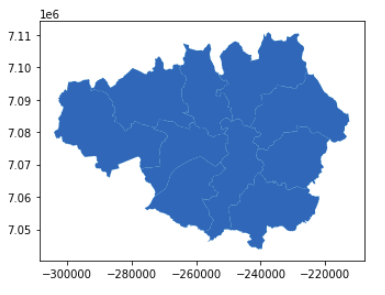
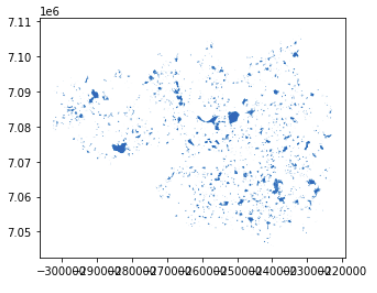
done plotting

diff --git a/_posts/2021-10-08-Mapping-green-spaces.md b/_posts/2021-10-08-Mapping-green-spaces.md
@@ -46,7 +46,6 @@ For this analysis, we have downloaded data from:
 * [Population data at postal sector level can be extracted from Nomis](https://www.nomisweb.co.uk/census/2011/ks101ew)
 
 
-
 ### Geopandas for data manipulation
 GeoPandas is a python library that enables geospatial data manipulation. It introduces the `geoSeries`, a subclass of `pandas.Series`, handles the geometries  (points, polygons etc.). The `geoDataFrame` extends the popular concept of a `pandas.DataFrame` by adding a `geometry` column, which specifies the geometry of each row in a `geoSeries`. The beauty of this class hierarchy is that you can store as much metadata in your `geoDataFrame` as you would in aregular `DataFrame` and you can keep using Pandas functionalities for data manipulation for free. 
 
@@ -74,6 +73,7 @@ There are three main types:
 * A **polygon**, an ordered sequence of point tuples that form a closed polygon. It can also specify an optional unordered sequence of ring-like sequences specifying the interior boundaries or “holes” of the feature. `Polygon([(0, 0), (1, 1), (1, 0)])`
 
 `geoSeries` also store information about the projection used to generate the coordinates (`geoSeries.crs`). A single `geoDataFrame` can contain  multiple `geoSeries` with different CRS, which means you can store multiple projections of the same geospatial objects, although only one geomtry will be considered as the *active* geometry for a specific `geoDataFrame`. 
+
 
 But, how does one use GeoPandas then? Well, I am glad you asked.
 
@@ -121,22 +121,142 @@ And lastly, for particular tasks you may need to change the projection that your
 gmcr_boroughs.to_crs(epsg=3857, inplace=True)
 ```
 
-### Mapping with matplotlib
-`GeoPandas` can also plot maps with the aid of the `geoDataFrame.plot()` method which calls the `matplotlib` library.
+### Green public areas in Greater Manchester
+So far so good, but we need to upload geospatial data for green public areas within Greater Manchester. In our case, we know that Grater Manchester spreads across OrdenanceSurvey *SD* and *SJ* quadrants, so we need to read both files and concatenate the resulting geoDataFrames.
 
 ```python
-gmcr_boroughs.plot()
+fp = 'data/greenspace_SD/SD_GreenspaceSite.shp'
+gs_sd = gpd.read_file(fp)
+
+fp = 'data/greenspace_SJ/SJ_GreenspaceSite.shp'
+gs_sj = gpd.read_file(fp)
+
+gs = gpd.GeoDataFrame(
+    pd.concat([gs_sd, gs_sj], ignore_index=True)
+)
+```
+
+We are only interested in certain types of green spaces, so we will filter down our geoDataFrame. 
+
+```python
+function_types = [
+    'Play Space',
+    'Playing Field',
+    'Public Park Or Garden',
+    'Bowling Green',
+    'Allotments Or Community Growing Spaces',
+]
+gs = gs[gs['function'].isin(function_types)]
+```
+
+Still, `gs` will contain all polygons for quadrants *SD* and *SJ*. We can use `geoPandas.overlay()` function to intersect `gs` and `gmcr_boroughs` frames.
+
+```python3
+# Filtering down to green spaces in greater manchester
+gmcr_gs = gpd.overlay(gmcr_boroughs, gs, how='intersection')
+```
+
+### Mapping with matplotlib
+Now we can finally plot these green spaces. `GeoPandas` can also plot maps with the aid of the `geoDataFrame.plot()` method which calls the `matplotlib` library.
+
+```python
+gmcr_gs.plot()
 ```
 
 <center>
     <figure>
         <img src='./../images/001_gmcr_green_areas/simple_plot.png'>
-        <figcaption><i>Output of `gmcr_boroughs.plot()`.</i></figcaption>
+        <figcaption><i>Output of `gmcr_gs.plot()`.</i></figcaption>
+    </figure>
+</center>
+
+The first time I manage to plot a geospatial data, I was really excited. But quickly you realise that as maps go, this simple rendering of our `geoDataFrame` lacks the feel of a map. Let's work on that.
+
+Let's start by defining the bounding box for the map. We can use `shapely.ops.cascade_union` function to union polygons that define Greater Manchester into one big polygon. Then we can use the `geoSeries.bounds` property to extract the minimum and maximum coordinates for the polygon.
+
+```python
+from shapely.ops import cascaded_union
+
+# Define Greater Manchester polygon
+greater_manchester = gpd.GeoSeries(cascaded_union(gmcr_boroughs.geometry))
+
+# Define bounding box
+bounds = greater_manchester.bounds
+bounding_box = [
+    bounds['minx'][0],
+    bounds['maxx'][0],
+    bounds['miny'][0],
+    bounds['maxy'][0],
+]
+
+# Set bounds
+ax.set_xlim(bounding_box[0]-1000, bounding_box[1] + 1000)
+ax.set_ylim(bounding_box[2]-1000, bounding_box[3] + 1000)
+```
+
+We then can go on and plot both the local authority boundaries (almost transparent, with `alpha=0.3`) and the green area polygons (as green shapes).
+
+```python
+# Plot borough borders
+gmcr_boroughs.plot(
+    ax=ax, 
+    alpha=0.3, 
+    edgecolor='black', 
+    facecolor='silver',
+)
+
+# Plot green areas
+gmcr_gs.plot(
+    ax=ax, 
+    alpha = 0.9, 
+    color='mediumseagreen',
+    label='Green Open Spaces',
+)
+```
+
+We can use `contextily` to add a backgrund map, which enhances the geographic contextualisation.
+
+```python
+import contextily as cx # map backgrounds
+
+# Add background
+cx.add_basemap(ax, source=cx.providers.Stamen.TonerLite)
+```
+
+Let's also remove ticks from axes, as they no longer carry relevant meaning.
+
+```python
+# Remove axis 
+ax.set_yticklabels([])
+ax.set_xticklabels([])
+```
+
+Last but not least, I want to add a legend. As the map layers we have added don't provide legend handles, we will create them from scratch with the following few lines.
+
+```python
+# Legend
+import matplotlib.patches as mpatches
+green_patch = mpatches.Patch(color='mediumseagreen', alpha=0.9, label='Green public spaces')
+gray_patch = mpatches.Patch(facecolor='silver', edgecolor='black', alpha=0.3, label='Local Authorities')
+leg = plt.legend(
+    handles=[green_patch, gray_patch],
+    bbox_to_anchor=(1.05, 1),
+    loc=2,
+    borderaxespad=0.,
+    frameon=False,
+    prop={'size': 12},
+```
+
+Putting it all together, we get this beauty of a map.
+
+<center>
+    <figure>
+        <img src='./../images/001_gmcr_green_areas/gmcr_green_areas.png'>
     </figure>
 </center>
 
 ### Running spatial calculations
-tbc
+Fantastic. But, what if we want to run more complex calculations. For example, what if we want to quantify the access to green public space based on population and break this down to a granular geographic breakdown, like postal sector?
 
 ### To wrap-up
 tbd
